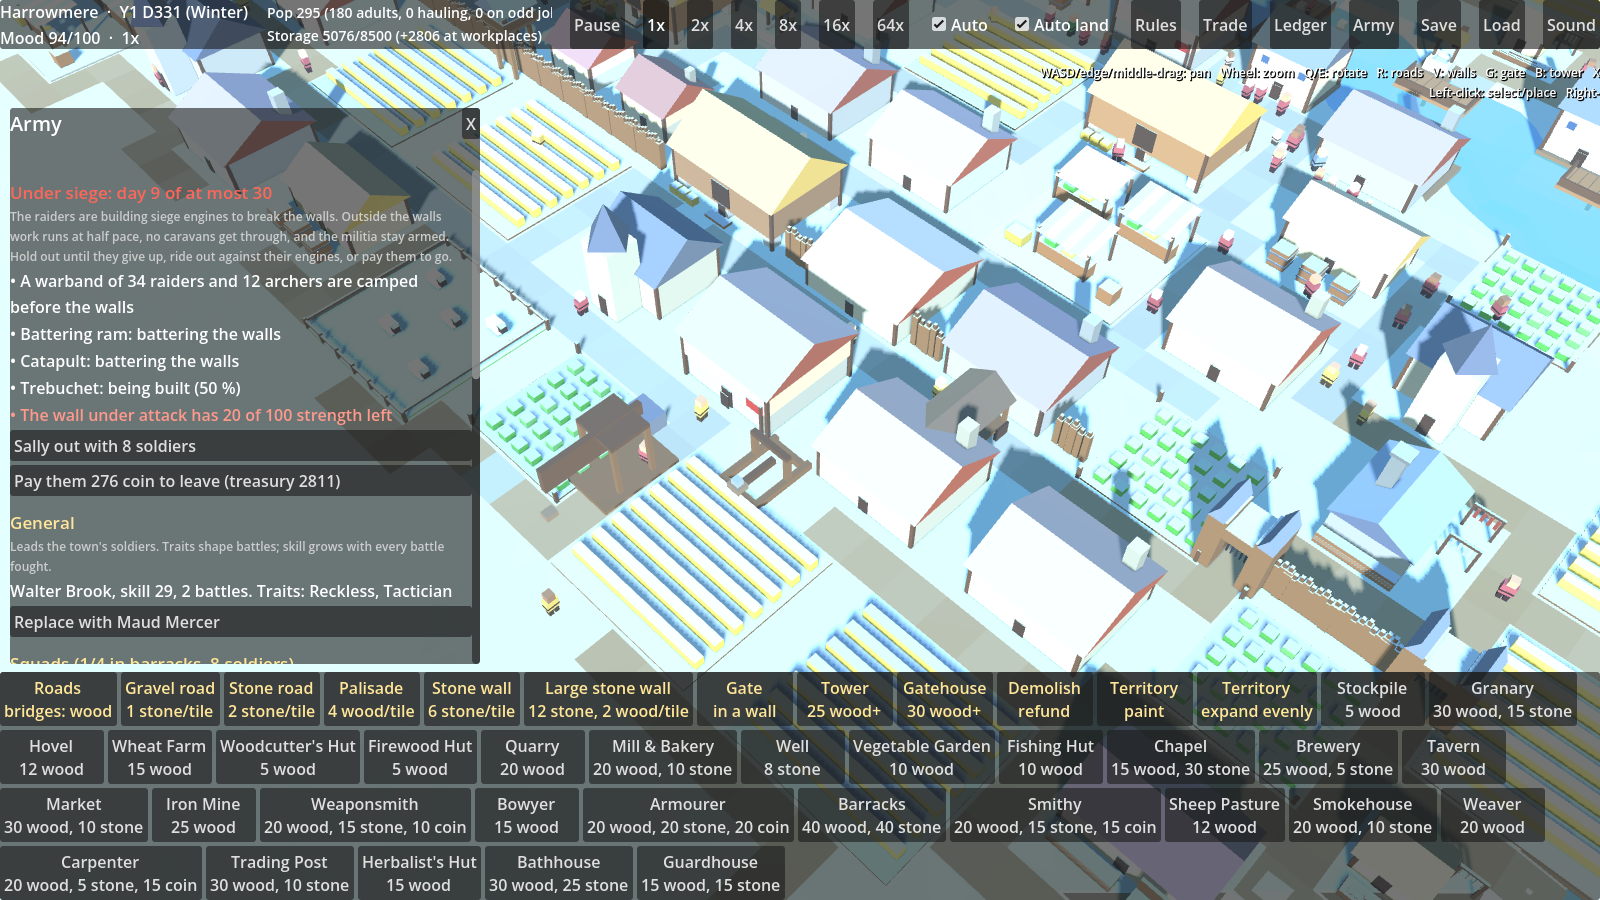
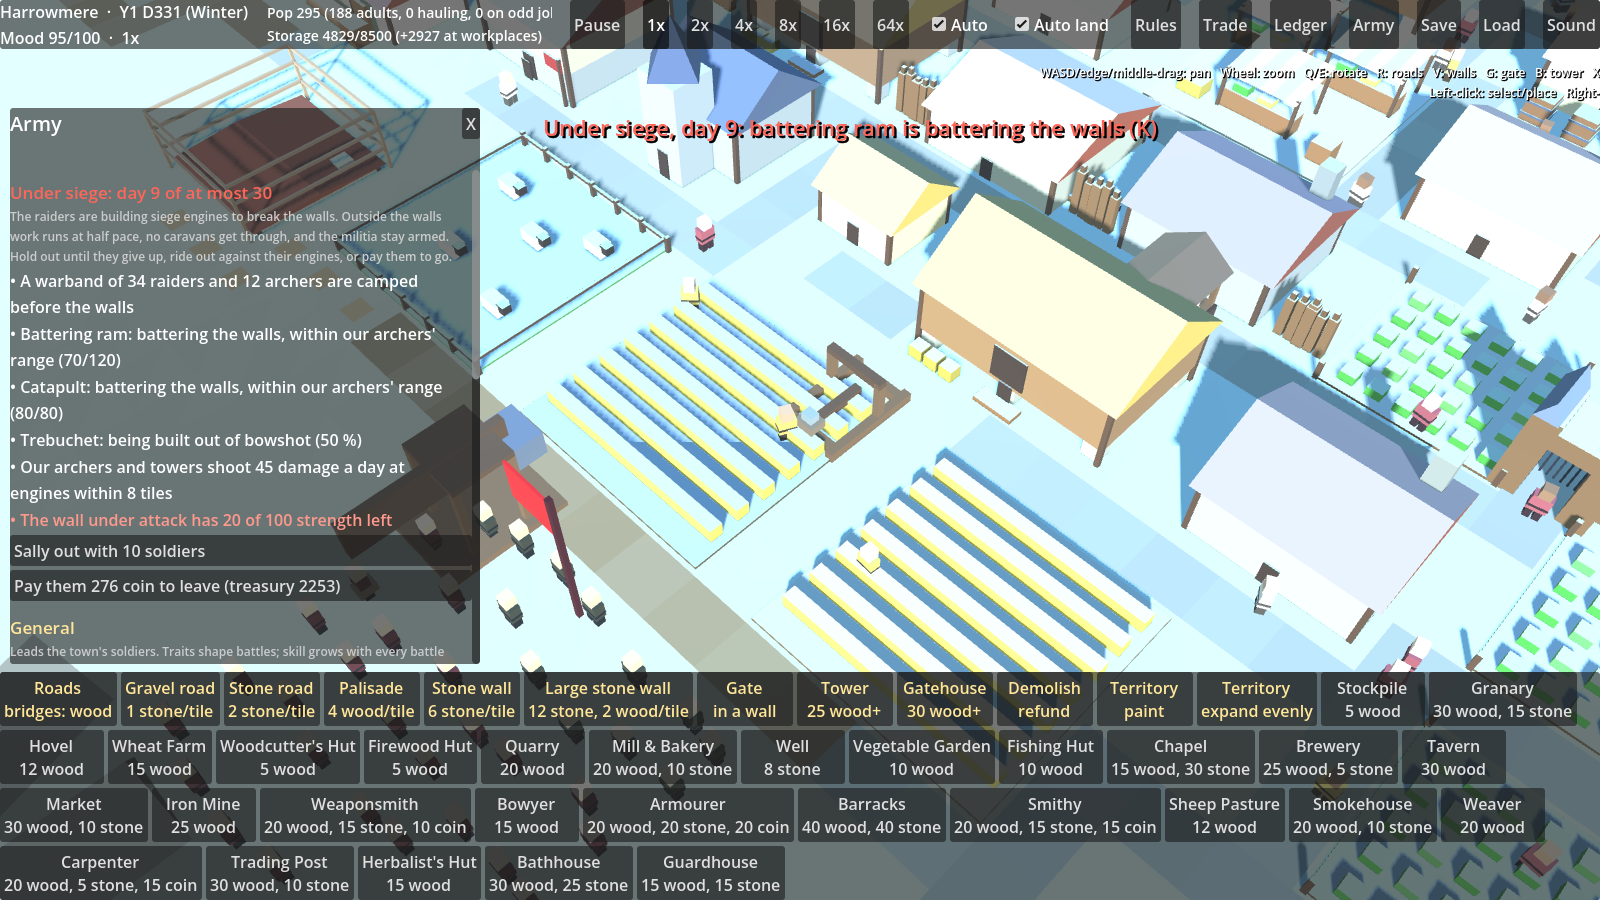
Archers and towers shoot siege engines that come within range
- Engines are built out of bowshot (archer range 8 + 3 tiles) and, once
  finished, rolled up to their working range: ram 1, catapult 6,
  trebuchet 12. Only engines within the archers' range are shot.
- Daily arrow damage: archers in squads (up to the wall-walk's room) and
  towers, at the nearest engine in range; wrecked engines are removed.
  Rams' hide roofs halve it; trebuchets out-range the archers.
- Army panel shows each engine's range and strength and the daily arrow
  damage; the renderer places engines at their build or working range.

Claude-Session: https://claude.ai/code/session_01MRVVn6MaY7YvDPrFApuYAs

diff --git a/src/Sim.Core/War/Siege.cs b/src/Sim.Core/War/Siege.cs
@@ -23,6 +23,15 @@ public sealed class EngineDef
 
     /// <summary>Extra multiplier against gates and gatehouses.</summary>
     public double VsGate { get; set; } = 1;
+
+    /// <summary>How far from the wall (tiles) it works once built: a ram must touch it, a trebuchet out-ranges archers.</summary>
+    public double Range { get; set; } = 1;
+
+    /// <summary>How much shooting it takes before it's wrecked.</summary>
+    public int Hp { get; set; } = 100;
+
+    /// <summary>Share of arrow damage it takes (a ram under its hide roof takes less).</summary>
+    public double ArrowFactor { get; set; } = 1;
 }
 
 /// <summary>Siege tuning (units.json "siege").</summary>
@@ -52,6 +61,16 @@ public sealed class SiegeRules
     /// <summary>Wall hit points restored a day per damaged tile once the siege is over (paid in materials).</summary>
     public int RepairHpPerDay { get; set; } = 40;
 
+    /// <summary>How far archers and towers on the walls can shoot (tiles). Engines are built beyond it.</summary>
+    public double ArcherRange { get; set; } = 8;
+
+    /// <summary>Tiles beyond archer range at which the band builds its engines.</summary>
+    public double BuildMargin { get; set; } = 3;
+
+    /// <summary>Damage a day to engines in range: per archer on the walls, and per tower.</summary>
+    public double ArrowDamagePerArcher { get; set; } = 1.5;
+    public double ArrowDamagePerTower { get; set; } = 6;
+
     public List<EngineDef> Engines { get; set; } = new();
 
     public EngineDef? Engine(string id) => Engines.FirstOrDefault(e => e.Id == id);
@@ -66,6 +85,9 @@ public sealed class SiegeEngine
     public double Progress { get; set; }
 
     public bool Built => Progress >= 1;
+
+    /// <summary>Strength left against arrows (set when it's finished and rolled up into range).</summary>
+    public int Hp { get; set; }
 }
 
 /// <summary>
@@ -175,11 +197,20 @@ public static class Siege
             band.Engines.Add(building = new SiegeEngine { Kind = next.Id });
         if (building != null && rules.Engine(building.Kind) is { } def)
         {
+            // Built out of bowshot, then rolled up to where it works from.
             building.Progress = Math.Min(1, building.Progress + 1 / Math.Max(0.1, def.BuildDays));
-            if (building.Built) world.Log(EventKind.Battle, s, $"Siege, day {band.SiegeDays}: the raiders finished a {def.Name.ToLowerInvariant()}");
+            if (building.Built)
+            {
+                building.Hp = def.Hp;
+                world.Log(EventKind.Battle, s, $"Siege, day {band.SiegeDays}: the raiders finished a {def.Name.ToLowerInvariant()} and " +
+                    (InArcherRange(rules, def) ? "rolled it up to the walls" : "set it up beyond bowshot"));
+            }
         }
 
-        // 2. Batter the outer wall tile the built engines bring down soonest.
+        // 2. Archers and towers on the walls shoot at engines that have come within their range.
+        ShootAtEngines(world, s, band);
+
+        // 3. Batter the outer wall tile the built engines bring down soonest.
         var engines = band.Engines.Where(e => e.Built).Select(e => rules.Engine(e.Kind)).OfType<EngineDef>().ToList();
         if (engines.Count == 0) return;
         (int X, int Y)? target = null;
@@ -209,6 +240,39 @@ public static class Siege
         };
         Commands.Walls.Breach(world, s, t.X, t.Y);
         Assault(world, s, band, $"Breach! The raiders broke through the {piece} and stormed in");
+    }
+
+    /// <summary>Whether an engine, once working, stands within bowshot of the walls.</summary>
+    public static bool InArcherRange(SiegeRules rules, EngineDef engine) => engine.Range <= rules.ArcherRange;
+
+    /// <summary>Archers in squads (on the walls during a siege, up to the wall-walk's room) and the towers.</summary>
+    public static double ArrowDamage(GameWorld world, Settlement s)
+    {
+        var rules = world.Data.War.Siege;
+        int archers = s.Squads.Where(q => world.Data.War.Unit(q.UnitId)?.Ranged == true).Sum(q => q.SoldierIds.Count);
+        int room = WallSystem.DefenderCapacity(world, s);
+        return Math.Min(archers, room) * rules.ArrowDamagePerArcher + WallSystem.Towers(s).Count() * rules.ArrowDamagePerTower;
+    }
+
+    /// <summary>
+    /// The defenders shoot at the nearest engine in range (only engines that have been finished and brought up within
+    /// bowshot; those still being built, and trebuchets working from beyond range, are safe). Wrecked engines are gone.
+    /// </summary>
+    public static void ShootAtEngines(GameWorld world, Settlement s, Warband band)
+    {
+        var rules = world.Data.War.Siege;
+        double damage = ArrowDamage(world, s);
+        if (damage <= 0) return;
+        var target = band.Engines
+            .Where(e => e.Built && rules.Engine(e.Kind) is { } d && InArcherRange(rules, d))
+            .OrderBy(e => rules.Engine(e.Kind)!.Range).FirstOrDefault();
+        if (target == null) return;
+        var def = rules.Engine(target.Kind)!;
+        if (target.Hp <= 0) target.Hp = def.Hp; // finished before engines had strength (older saves)
+        target.Hp -= (int)Math.Ceiling(damage * def.ArrowFactor);
+        if (target.Hp > 0) return;
+        band.Engines.Remove(target);
+        world.Log(EventKind.Battle, s, $"Siege, day {band.SiegeDays}: our archers wrecked the raiders' {def.Name.ToLowerInvariant()}");
     }
 
     private static void Assault(GameWorld world, Settlement s, Warband band, string message)

diff --git a/tests/Sim.Tests/SiegeTests.cs b/tests/Sim.Tests/SiegeTests.cs
@@ -205,6 +205,38 @@ public class SiegeTests
     }
 
     [Fact]
+    public void ArchersOnlyShootEnginesThatComeWithinRange()
+    {
+        var (world, town, _) = WalledTown(1);
+        Grow(world, town, 60);
+        town.Stock.Add("bows", 30);
+        for (int i = 0; i < 2; i++) Assert.NotNull(Armies.Raise(world, town, "archers", 10, levy: true).Squad);
+        var rules = world.Data.War.Siege;
+        Assert.True(Siege.ArrowDamage(world, town) > 0);
+        Assert.True(rules.ArcherRange < rules.Engine("trebuchet")!.Range); // trebuchets out-range archers
+        Assert.True(Siege.InArcherRange(rules, rules.Engine("catapult")!));
+        Assert.True(Siege.InArcherRange(rules, rules.Engine("ram")!));
+
+        var band = BandAtTheWalls(world, town, 40);
+        Siege.Begin(world, town, band);
+        var building = new SiegeEngine { Kind = "catapult", Progress = 0.5 };     // still being built, out of bowshot
+        var trebuchet = new SiegeEngine { Kind = "trebuchet", Progress = 1, Hp = 150 }; // working from beyond range
+        var catapult = new SiegeEngine { Kind = "catapult", Progress = 1, Hp = 80 };    // rolled up within range
+        band.Engines.AddRange(new[] { building, trebuchet, catapult });
+
+        Siege.ShootAtEngines(world, town, band);
+        Assert.True(catapult.Hp < 80);
+        Assert.Equal(150, trebuchet.Hp);
+        Assert.Equal(0, building.Hp);
+
+        for (int day = 0; day < 40 && band.Engines.Contains(catapult); day++) Siege.ShootAtEngines(world, town, band);
+        Assert.DoesNotContain(catapult, band.Engines);  // wrecked
+        Assert.Contains(trebuchet, band.Engines);       // untouched
+        Assert.Contains(building, band.Engines);
+        Assert.Contains(world.Events, e => e.Message.Contains("archers wrecked"));
+    }
+
+    [Fact]
     public void SiegesSurviveSaveAndLoad()
     {
         var (world, town, _) = WalledTown(1);

diff --git a/client/Scripts/Ui/ArmyPanel.cs b/client/Scripts/Ui/ArmyPanel.cs
@@ -176,7 +176,7 @@ public partial class ArmyPanel : PanelContainer
     }
 
     private string SiegeSignature(Settlement s) => Siege.BandAt(World, s) is { } b
-        ? $"{b.SiegeDays}:{b.Size}:{string.Join(",", b.Engines.Select(e => $"{e.Kind}{(int)(e.Progress * 10)}"))}:" +
+        ? $"{b.SiegeDays}:{b.Size}:{string.Join(",", b.Engines.Select(e => $"{e.Kind}{(int)(e.Progress * 10)}h{e.Hp}"))}:" +
           (b.HasTarget && s.Walls.TryGetValue((b.TargetX, b.TargetY), out var w) ? w.Hp : -1) + $":{b.LastSallyDay}"
         : "";
 
@@ -192,9 +192,14 @@ public partial class ArmyPanel : PanelContainer
         foreach (var engine in band.Engines)
         {
             string name = rules.Engine(engine.Kind)?.Name ?? engine.Kind;
-            Line(engine.Built ? $"• {name}: battering the walls" : $"• {name}: being built ({engine.Progress:P0})");
+            var def = rules.Engine(engine.Kind);
+            bool inRange = def != null && Siege.InArcherRange(rules, def);
+            Line(!engine.Built ? $"• {name}: being built out of bowshot ({engine.Progress:P0})"
+                : inRange ? $"• {name}: battering the walls, within our archers' range ({Math.Max(0, engine.Hp)}/{def!.Hp})"
+                : $"• {name}: battering the walls from beyond bowshot");
         }
         if (band.Engines.Count == 0) Line("• No engines yet");
+        Line($"• Our archers and towers shoot {Siege.ArrowDamage(World, s):0} damage a day at engines within {rules.ArcherRange:0} tiles");
         if (band.HasTarget && s.Walls.TryGetValue((band.TargetX, band.TargetY), out var wall))
         {
             int max = Sim.Core.Commands.Walls.PieceHitPoints(World, wall.Tier, wall.Piece);

diff --git a/client/Scripts/WarbandRenderer.cs b/client/Scripts/WarbandRenderer.cs
@@ -131,7 +131,12 @@ public partial class WarbandRenderer : Node3D
         {
             var engine = band.Engines[i];
             if (!_engines.TryGetValue(engine.Kind, out var mm) || engineCounts[engine.Kind] >= mm.InstanceCount) continue;
-            float distance = engine.Kind == "ram" ? 1.6f : engine.Kind == "catapult" ? 5f : 7f;
+            // Built out of bowshot; once finished, rolled up to where it works from (a ram right against the wall).
+            var siegeRules = world.Data.War.Siege;
+            var def = siegeRules.Engine(engine.Kind);
+            float distance = !engine.Built
+                ? (float)(siegeRules.ArcherRange + siegeRules.BuildMargin)
+                : Mathf.Max(1.6f, (float)(def?.Range ?? 1));
             var p = target - toWall * distance + across * ((i - (band.Engines.Count - 1) / 2f) * 2.2f);
             // Half-built engines are drawn short.
             float build = engine.Built ? 1f : 0.35f + 0.65f * (float)engine.Progress;

diff --git a/client/Scripts/Main.cs b/client/Scripts/Main.cs
@@ -727,8 +727,8 @@ public partial class Main : Node3D
         world.War.Warbands.Add(band);
         Siege.Begin(world, town, band);
         band.SiegeDays = 9;
-        band.Engines.Add(new SiegeEngine { Kind = "ram", Progress = 1 });
-        band.Engines.Add(new SiegeEngine { Kind = "catapult", Progress = 1 });
+        band.Engines.Add(new SiegeEngine { Kind = "ram", Progress = 1, Hp = 70 });
+        band.Engines.Add(new SiegeEngine { Kind = "catapult", Progress = 1, Hp = 80 });
         band.Engines.Add(new SiegeEngine { Kind = "trebuchet", Progress = 0.5 });
         band.HasTarget = true;
         band.TargetX = target.X;

diff --git a/src/Sim.Core/Simulation/GameWorld.cs b/src/Sim.Core/Simulation/GameWorld.cs
@@ -122,7 +122,7 @@ public sealed class GameWorld
         {
             h.Add(w.Id).Add(w.TargetId).Add(w.X).Add(w.Y).Add(w.Raiders).Add(w.Archers)
                 .Add(w.Siege).Add(w.SiegeDays).Add(w.HasTarget).Add(w.TargetX).Add(w.TargetY).Add(w.LastSallyDay);
-            foreach (var e in w.Engines) h.Add(e.Kind).Add(e.Progress);
+            foreach (var e in w.Engines) h.Add(e.Kind).Add(e.Progress).Add(e.Hp);
         }
         h.Add(War.Reports.Count);
         var trade = Trade;

diff --git a/README.md b/README.md
@@ -15,7 +15,7 @@ What works today:
 - **Jobs.** People are assigned by settlement rules (job priorities). The rules give priority to food during shortages, to producers of scarce goods, and to builders.
 - **Production chains** defined in JSON: farm → grain, then mill & bakery → bread; vegetable garden → vegetables; fishing hut (by water) → fish; sheep pasture → wool and mutton; smokehouse: mutton or fish (+ firewood) → smoked meat; brewery: grain → ale; woodcutter → wood; firewood hut → firewood; quarry → stone. They respect stock reserves and stock limits (like Dwarf Fortress work orders), and workers are freed once stores are full.
 - **Walls and gates:** draw a palisade, stone wall or large stone wall like a road; walls stop everyone except at gates, homes inside a closed ring feel safe, and towns ring themselves as they grow. Stone walls have a wall-walk behind battlements, reached by stairs and gatehouses, ready for defenders; towers and gatehouses add strong points.
-- **Sieges:** big bandit warbands dig in before walled towns and build battering rams, catapults and trebuchets, battering the weakest stretch of wall until it breaks and they storm in. Sally out to burn their engines, pay them to leave, or hold out until they give up. Battered walls are repaired afterwards.
+- **Sieges:** big bandit warbands dig in before walled towns and build battering rams, catapults and trebuchets, battering the weakest stretch of wall until it breaks and they storm in. Engines are built out of bowshot; once rolled up within range, archers and towers on the walls shoot them to pieces (trebuchets out-range them). Sally out to burn their engines, pay them to leave, or hold out until they give up. Battered walls are repaired afterwards.
 - **Health and the watch:** herbalists speed recovery, bathhouses keep sickness down, and guardhouses keep thieves away from the homes around them. Poor or unhappy people out of the watch's reach steal from the richest homes.
 - **Household economy:** families earn wages by their job and skill, pay income tax, and buy their food, warmth and services; what they can't afford they go without, so classes come from income. The treasury pays builders, haulers and soldiers. Choose how the town is run in the rules: Free Traders, Common Weal, Commune or Iron Rule.
 - **Armies and raids:** weaponsmiths, bowyers and armourers make gear; a barracks trains squads of townsfolk (militia, spearmen, archers, men-at-arms) led by a general with traits. Bandit warbands march on growing towns: the alert climbs from watch to muster to call to arms, the militia arm, and the battle is fought with walls and towers helping the defenders. The fallen are real townsfolk.

diff --git a/docs/DESIGN.md b/docs/DESIGN.md
@@ -548,6 +548,12 @@ One mechanism covers barter, coin and routes. Tuning is in `trade.json`; fair va
   | Trebuchet | 8 | 80 | ×2 against large stone walls |
 
   The band builds whichever engine would bring down some wall tile soonest for its build time.
+- **Archers only reach engines in range:**
+  - Engines are built out of bowshot, 3 tiles beyond the archers' range of 8.
+  - Once finished, each engine is rolled up to where it works from: rams to the wall (range 1), catapults to 6 tiles, trebuchets to 12.
+  - Each day the archers in squads (up to the wall-walk's room, 1.5 damage each) and the towers (6 each) shoot at the nearest engine within range. A wrecked engine is gone.
+  - Engine strength: ram 120 (its hide roof halves arrow damage), catapult 80, trebuchet 150.
+  - Trebuchets out-range the archers, so only a sally can stop one. Engines still being built are never shot at.
 - **Battering:** built engines batter the wall tile they can bring down soonest. Only tiles with outside ground on one side and walled-in ground on the other count, so a corner is never wasted on.
 - **Breach:** when a tile reaches 0 hit points it is knocked down (nothing to salvage), the ring opens and the band storms in. Everyone eligible is called up, and the walls now help less.
 - **Siege length:** after 30 days the band gives up; it also gives up if fewer than 10 are left.
@@ -569,7 +575,7 @@ One mechanism covers barter, coin and routes. Tuning is in `trade.json`; fair va
   - Battered walls show soot cracks and fallen stones.
   - `--demo-siege` sets up a siege for screenshots.
 - **720 days:** each seed had several sieges: seed 42 paid off all 6; seed 7 paid off 3 of 3; seed 1234 paid off 2 of 5, with 1 breach that was beaten back. No starvation.
-- **Later:** player-vs-player sieges, archers on walls shooting at engines, fire, mining, starving a town out.
+- **Later:** player-vs-player sieges, fire, mining, starving a town out.
 
 ## Battles: individual units + destructible structures (hybrid LOD simulation)
 
